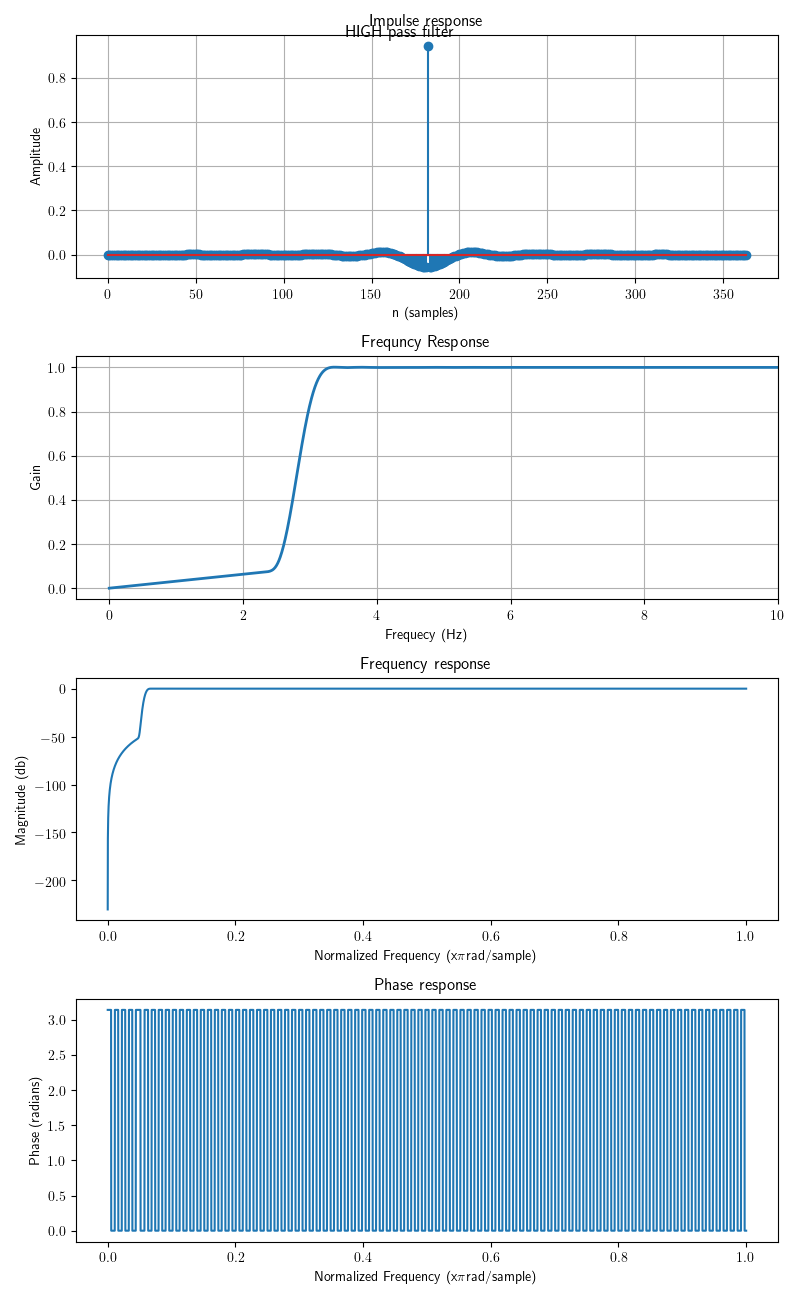
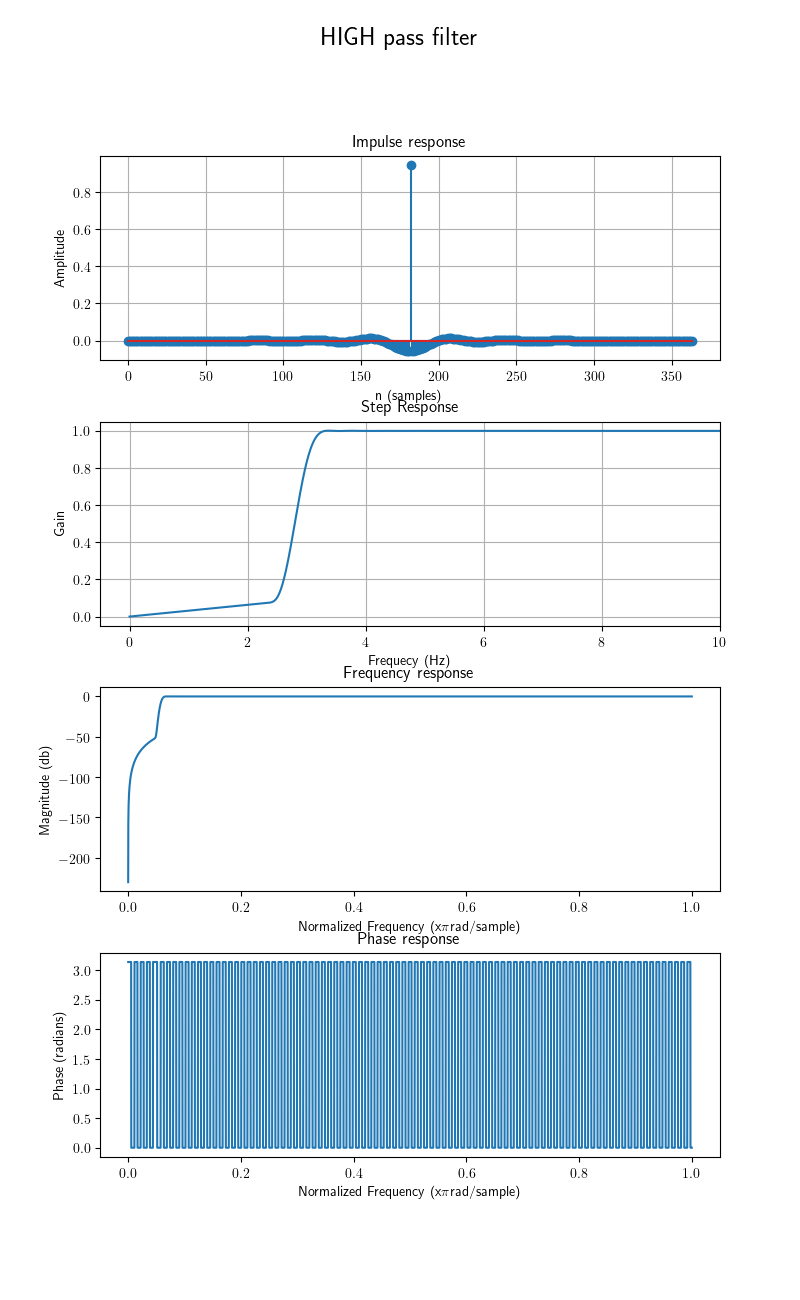
generated now plots

diff --git a/lti_system.py b/lti_system.py
@@ -93,10 +93,11 @@ class fir_filter:
             plt.subplot(subplot)
         w = self._freqz[0]
         h = self._freqz[1]
-        plt.plot((w/np.pi)*self._nyq_rate,np.absolute(h),linewidth=2)
+        plt.plot((w/np.pi)*self._nyq_rate,np.absolute(h))
+        #plt.stem((w/np.pi)*self._nyq_rate,np.absolute(h))
         plt.xlabel('Frequecy (Hz)')
         plt.ylabel('Gain')
-        plt.title('Frequncy Response')
+        plt.title('Step Response')
         plt.ylim(-0.05,1.05)
         plt.xlim(-0.5,10)
         plt.grid(True)
@@ -200,6 +201,7 @@ def plot_lit_sytem(data, walk_run='walk', signalnr=4, cutoff_hz=2.0, savefig='pl
     fir.plot_frequesy_response(shape + count)
     count += 1
     fir.plot_phase_response(shape+count)
+    plt.subplots_adjust(hspace=0.3)
     plt.savefig("presentation/figures/{}".format(savefig))
 
 
@@ -209,22 +211,22 @@ if __name__ == '__main__':
     plt.rc('text', usetex=True)
     higpa_cutoff_hz=2.8
     # --------- Lopass filterd signals------------
-    # fig=plt.figure(figsize=(8,13), tight_layout=True)
-    # fig.suptitle("LOW pass filterd signal")
-    # plot_filter_results(data, savefig="plot_lti_lopasl.png")
+    fig=plt.figure(figsize=(8,13), tight_layout=False)
+    fig.suptitle("LOW pass filterd signal")
+    plot_filter_results(data, savefig="plot_lti_lopasl.png")
     # --------- Highpass filterd signals------------
-    fig=plt.figure(figsize=(8,13), tight_layout=True)
-    fig.suptitle("HIGH pass filterd signal")
+    fig=plt.figure(figsize=(8,13), tight_layout=False)
+    fig.suptitle("HIGH pass filterd signal", fontsize=18)
     plot_filter_results(data, savefig='plot_lti_higpas.png', cutoff_hz=higpa_cutoff_hz, hp=True)
 
 
     # --------- Lopass filter plot ------------
-    # fig=plt.figure(figsize=(8,13), tight_layout=True)
-    # fig.suptitle("LOW pass filter")
-    # plot_lit_sytem(data,walk_run='run', signalnr=4, savefig='plot_system_lopass.png')
+    fig=plt.figure(figsize=(8,13), tight_layout=False)
+    fig.suptitle("LOW pass filter")
+    plot_lit_sytem(data,walk_run='run', signalnr=4, savefig='plot_system_lopass.png')
     # --------- Higpass filter plot ------------
-    fig=plt.figure(figsize=(8,13), tight_layout=True)
-    fig.suptitle("HIGH pass filter")
+    fig=plt.figure(figsize=(8,13), tight_layout=False)
+    fig.suptitle("HIGH pass filter", fontsize=18, ha = 'center', va='top')
     plot_lit_sytem(data,walk_run='run', signalnr=4, savefig='plot_system_higpass.png', cutoff_hz=higpa_cutoff_hz, hp=True)
 
     # for key in data.keys():
@@ -237,5 +239,5 @@ if __name__ == '__main__':
     #         fir.plot_signals('signals of {}'.format(key),subplot=subplot)
     #         fir.plot_fir_coefficients(gain_subplot=subplot + 1)
 
-    plt.show()
+    #plt.show()
 
